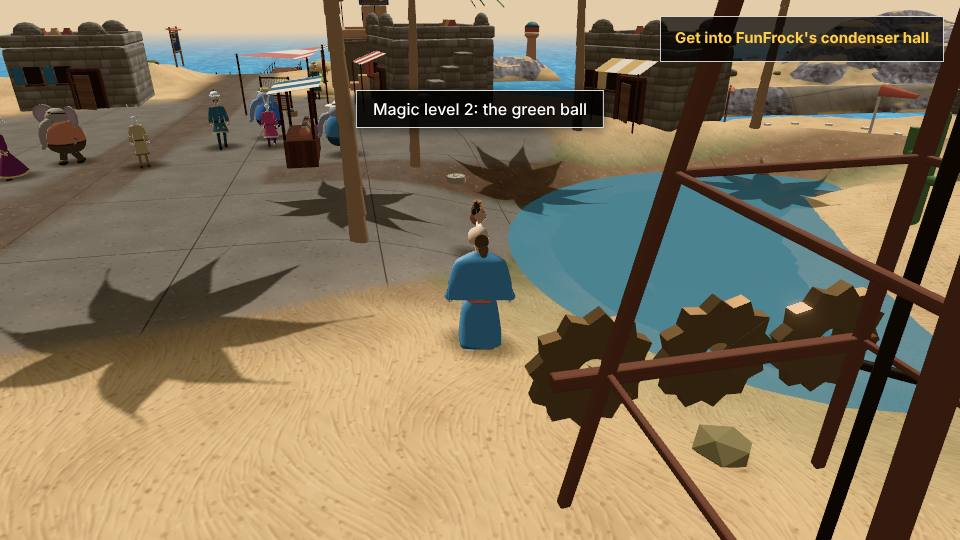
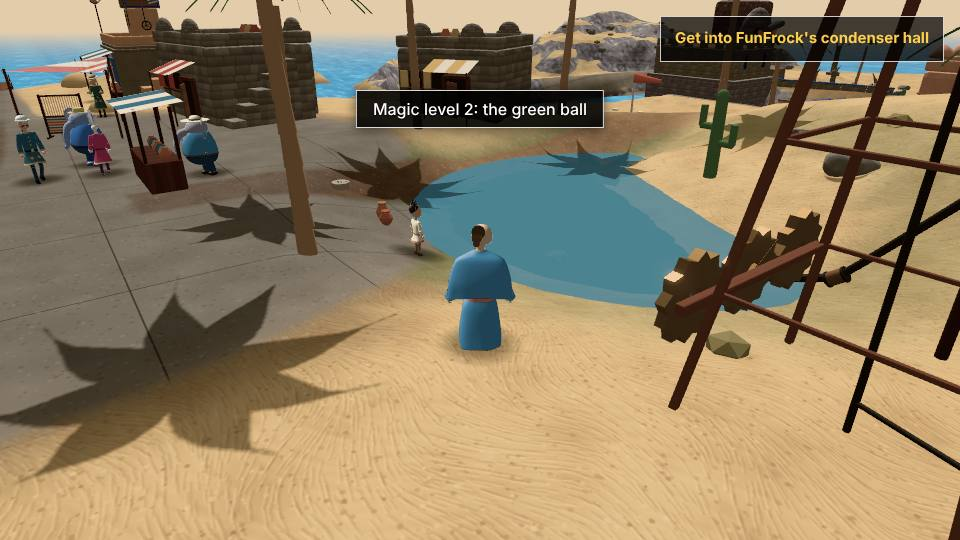
P81: the revisit check passes after the EXP-3 merge (7/7); captures re-framed
Claude-Session: https://claude.ai/code/session_012GFEakZyL3XxjZKHRj5dFg

diff --git a/lba3/docs/lba-maturity/P81.md b/lba3/docs/lba-maturity/P81.md
@@ -113,7 +113,7 @@ made from the text at runtime: there is no recorded clip to regenerate.
 | Test | Result | What it shows |
 |---|---|---|
 | `node tests/dialogue-check.mjs` | PASS (Hebrew 100 %) | keys, speakers, placeholders, voicemeta |
-| `tests/p81-revisits.mjs` (new; the one focused check of the revisits) | **7/7 PASS, no page errors** (on `e2c568a2`, before the merge; three earlier runs failed the walk: Sani crowded Safi's round stop, fixed by the north rim). After the merge with EXP-3: see the resume point | Sani at his spot before the pump; the joint pushed by the use key: he walks to the oasis's rim and bends to the water, hands in it, feet on the ground, outside the pond; Tarra's and Sani's new lines heard; Save & quit → Continue keeps him there; chapter 5's return to Kesh finds him there. Captures `captures/p81/01-sani-at-oasis.jpg`, `02-chapter5-kesh.jpg` |
+| `tests/p81-revisits.mjs` (new; the one focused check of the revisits) | **7/7 PASS, no page errors** (on `e2c568a2`, before the merge; three earlier runs failed the walk: Sani crowded Safi's round stop, fixed by the north rim). After the merge with EXP-3 and scene 3 (`d56daf8f`): **7/7 PASS again, no page errors** | Sani at his spot before the pump; the joint pushed by the use key: he walks to the oasis's rim and bends to the water, hands in it, feet on the ground, outside the pond; Tarra's and Sani's new lines heard; Save & quit → Continue keeps him there; chapter 5's return to Kesh finds him there. Captures `captures/p81/01-sani-at-oasis.jpg`, `02-chapter5-kesh.jpg` |
 | `tests/desert-life.mjs` | updated, not run (the full test at the end) | its order-B check expected Sani at his roof spot with the pump running; it now expects his oasis place |
 
 Not run (the user's rule: the full test at the end): `chapter2.mjs`, `chapter5.mjs`, `chapter7.mjs`, `chapter8.mjs`,
